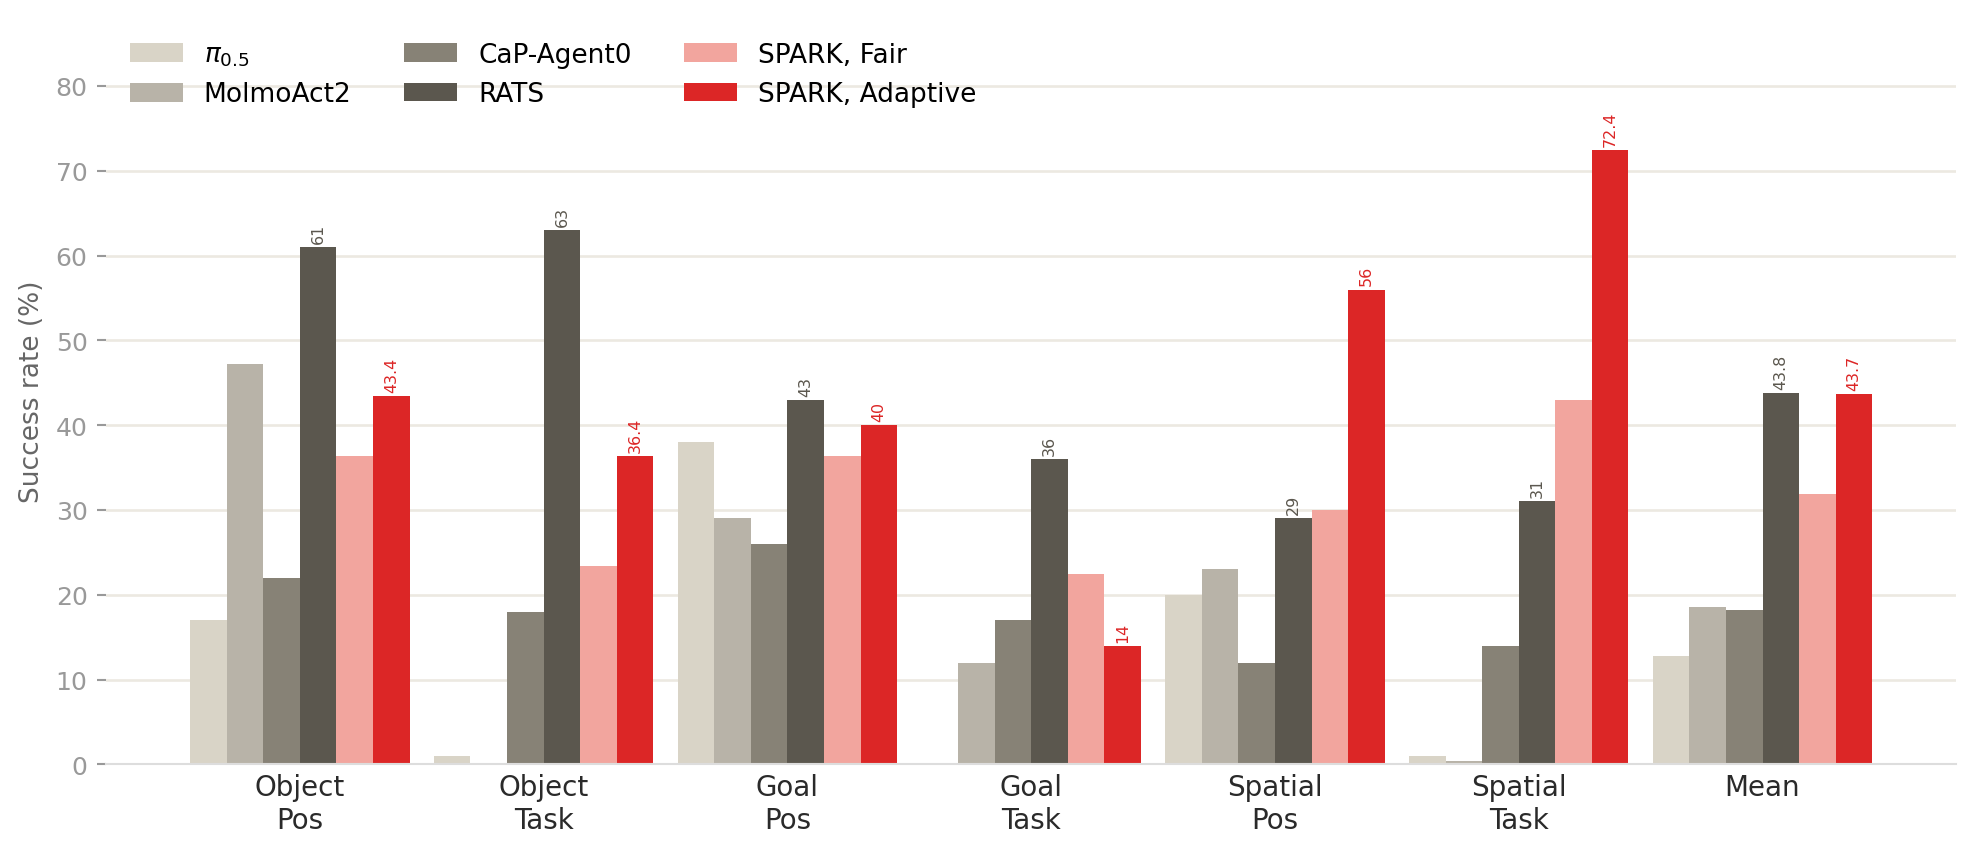
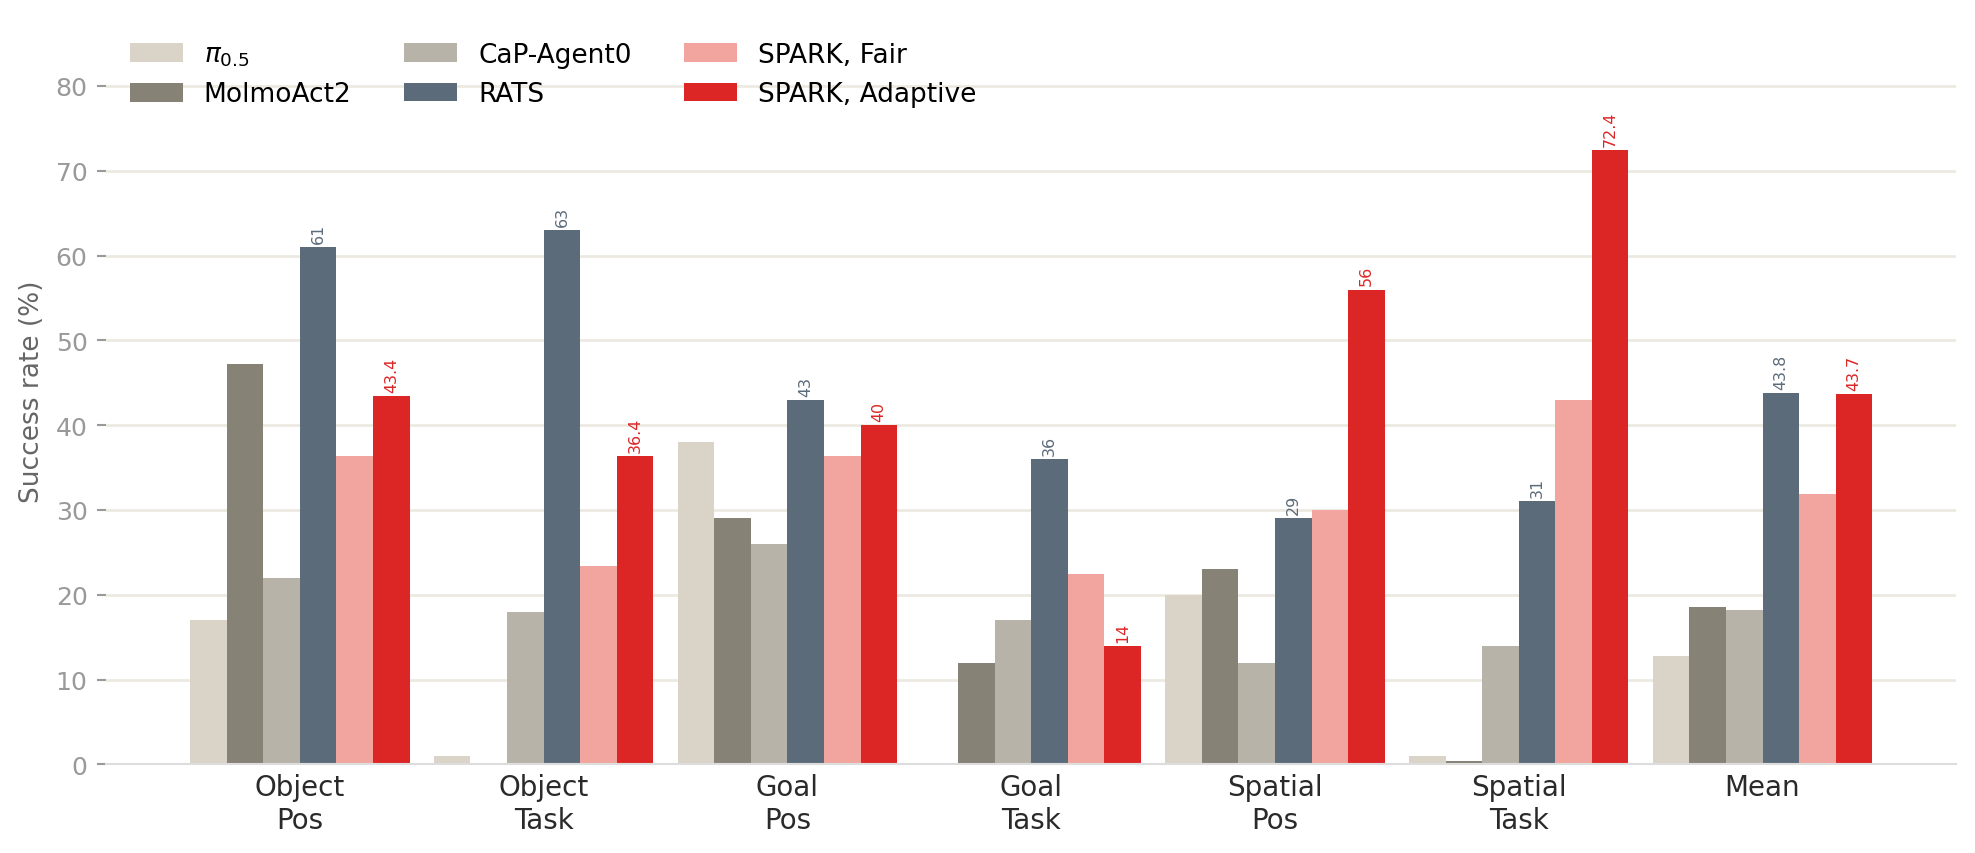
Update project page

diff --git a/index.html b/index.html
@@ -134,13 +134,13 @@
             post-condition checks, re-grounding perception on a failed check with no new LLM call.
           </figcaption>
         </figure>
-        <div class="content has-text-justified is-size-5">
+        <div class="content has-text-justified">
           <p>
             SAM3 grounds the scene from the platform cameras. One Gemini call writes the whole plan as a
             typed behavior tree, the score, and the robot sight-reads it without any training. The plan is
             symbolic, so moving an object or rewording the instruction barely changes it.
-            <em>&ldquo;Put the bowl on the plate&rdquo;</em> calls for the same score whether the bowl
-            starts on the left or the right. Only the pixels that the label <em>bowl</em> binds to have
+            &ldquo;Put the bowl on the plate&rdquo; calls for the same score whether the bowl
+            starts on the left or the right. Only the pixels that the label bowl binds to have
             moved. Perception is the layer that breaks under that shift, so that is where SPARK spends
             its compute.
           </p>
@@ -235,11 +235,9 @@
       <div class="column is-one-third"><div class="vcard" data-score="capbench_handover"><video src="score_visualizer/videos/capbench_handover.mp4" autoplay muted loop playsinline></video><p>Two-arm handover<span class="emb">CaP-Bench sim, 24% at 100 trials</span></p></div></div>
       <div class="column is-one-third"><div class="vcard" data-score="liberopro_object_cream_cheese"><video src="score_visualizer/videos/liberopro_object_cream_cheese.mp4" autoplay muted loop playsinline></video><p>Cream cheese to basket<span class="emb">LIBERO-Pro, object suite, pass</span></p></div></div>
       <div class="column is-one-third"><div class="vcard" data-score="liberopro_object_milk"><video src="score_visualizer/videos/liberopro_object_milk.mp4" autoplay muted loop playsinline></video><p>Milk to basket<span class="emb">LIBERO-Pro, object suite, pass</span></p></div></div>
-      <div class="column is-one-third"><div class="vcard" data-score="liberopro_object_tomato_sauce"><video src="score_visualizer/videos/liberopro_object_tomato_sauce.mp4" autoplay muted loop playsinline></video><p>Tomato sauce to basket<span class="emb">LIBERO-Pro, object suite, pass</span></p></div></div>
       <div class="column is-one-third"><div class="vcard" data-score="liberopro_spatial_next_ramekin"><video src="score_visualizer/videos/liberopro_spatial_next_ramekin.mp4" autoplay muted loop playsinline></video><p>Bowl next to ramekin onto plate<span class="emb">LIBERO-Pro, spatial suite, pass</span></p></div></div>
       <div class="column is-one-third"><div class="vcard" data-score="liberopro_spatial_table_center"><video src="score_visualizer/videos/liberopro_spatial_table_center.mp4" autoplay muted loop playsinline></video><p>Bowl from table center onto plate<span class="emb">LIBERO-Pro, spatial suite, pass</span></p></div></div>
       <div class="column is-one-third"><div class="vcard" data-score="liberopro_goal_cheese_bowl"><video src="score_visualizer/videos/liberopro_goal_cheese_bowl.mp4" autoplay muted loop playsinline></video><p>Cream cheese in bowl<span class="emb">LIBERO-Pro, goal suite, pass</span></p></div></div>
-      <div class="column is-one-third"><div class="vcard" data-score="liberopro_goal_wine_rack"><video src="score_visualizer/videos/liberopro_goal_wine_rack.mp4" autoplay muted loop playsinline></video><p>Wine bottle on rack<span class="emb">LIBERO-Pro, goal suite, pass</span></p></div></div>
     </div>
     <p class="has-text-centered content is-size-6 has-text-grey" style="margin-top:1.5rem">
       On hardware the same pipeline averages <strong>68%</strong> across eleven task-embodiment cells
